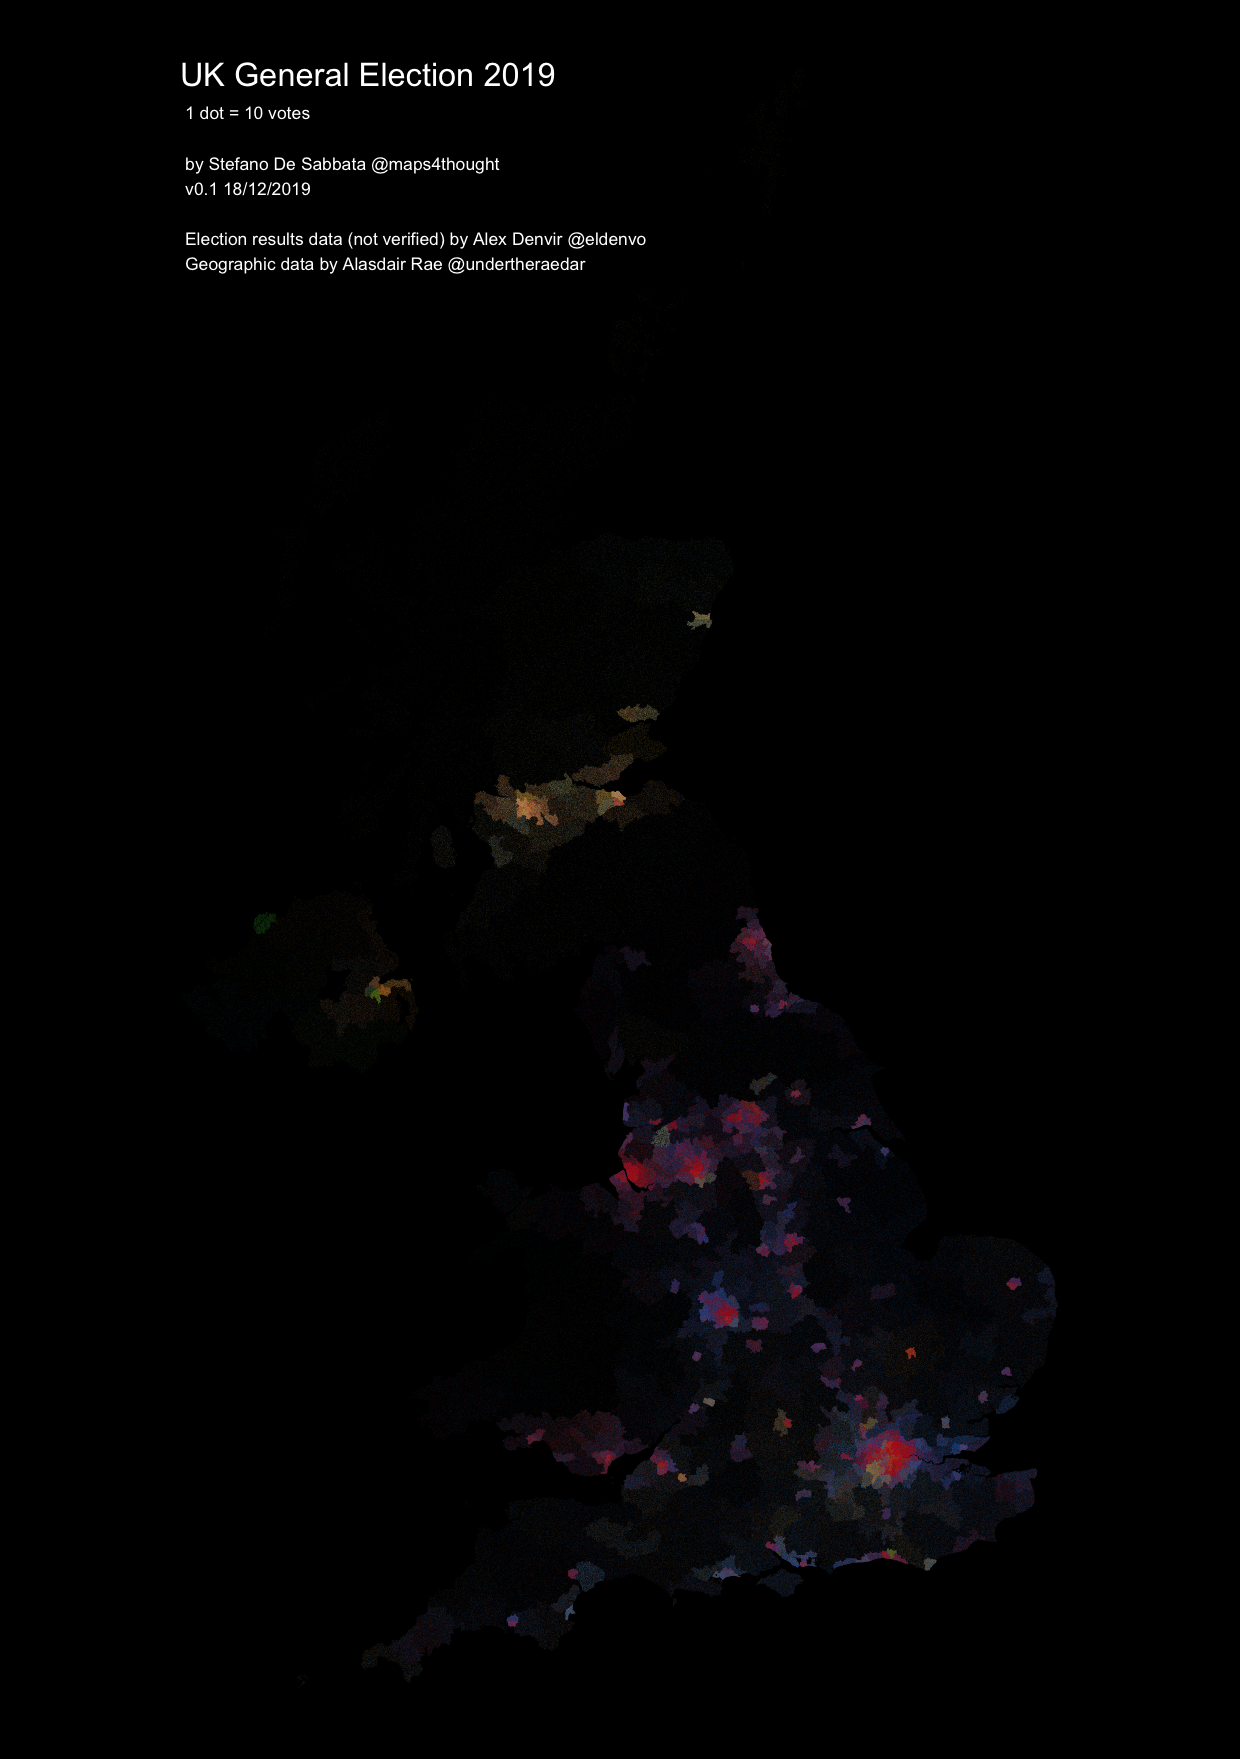
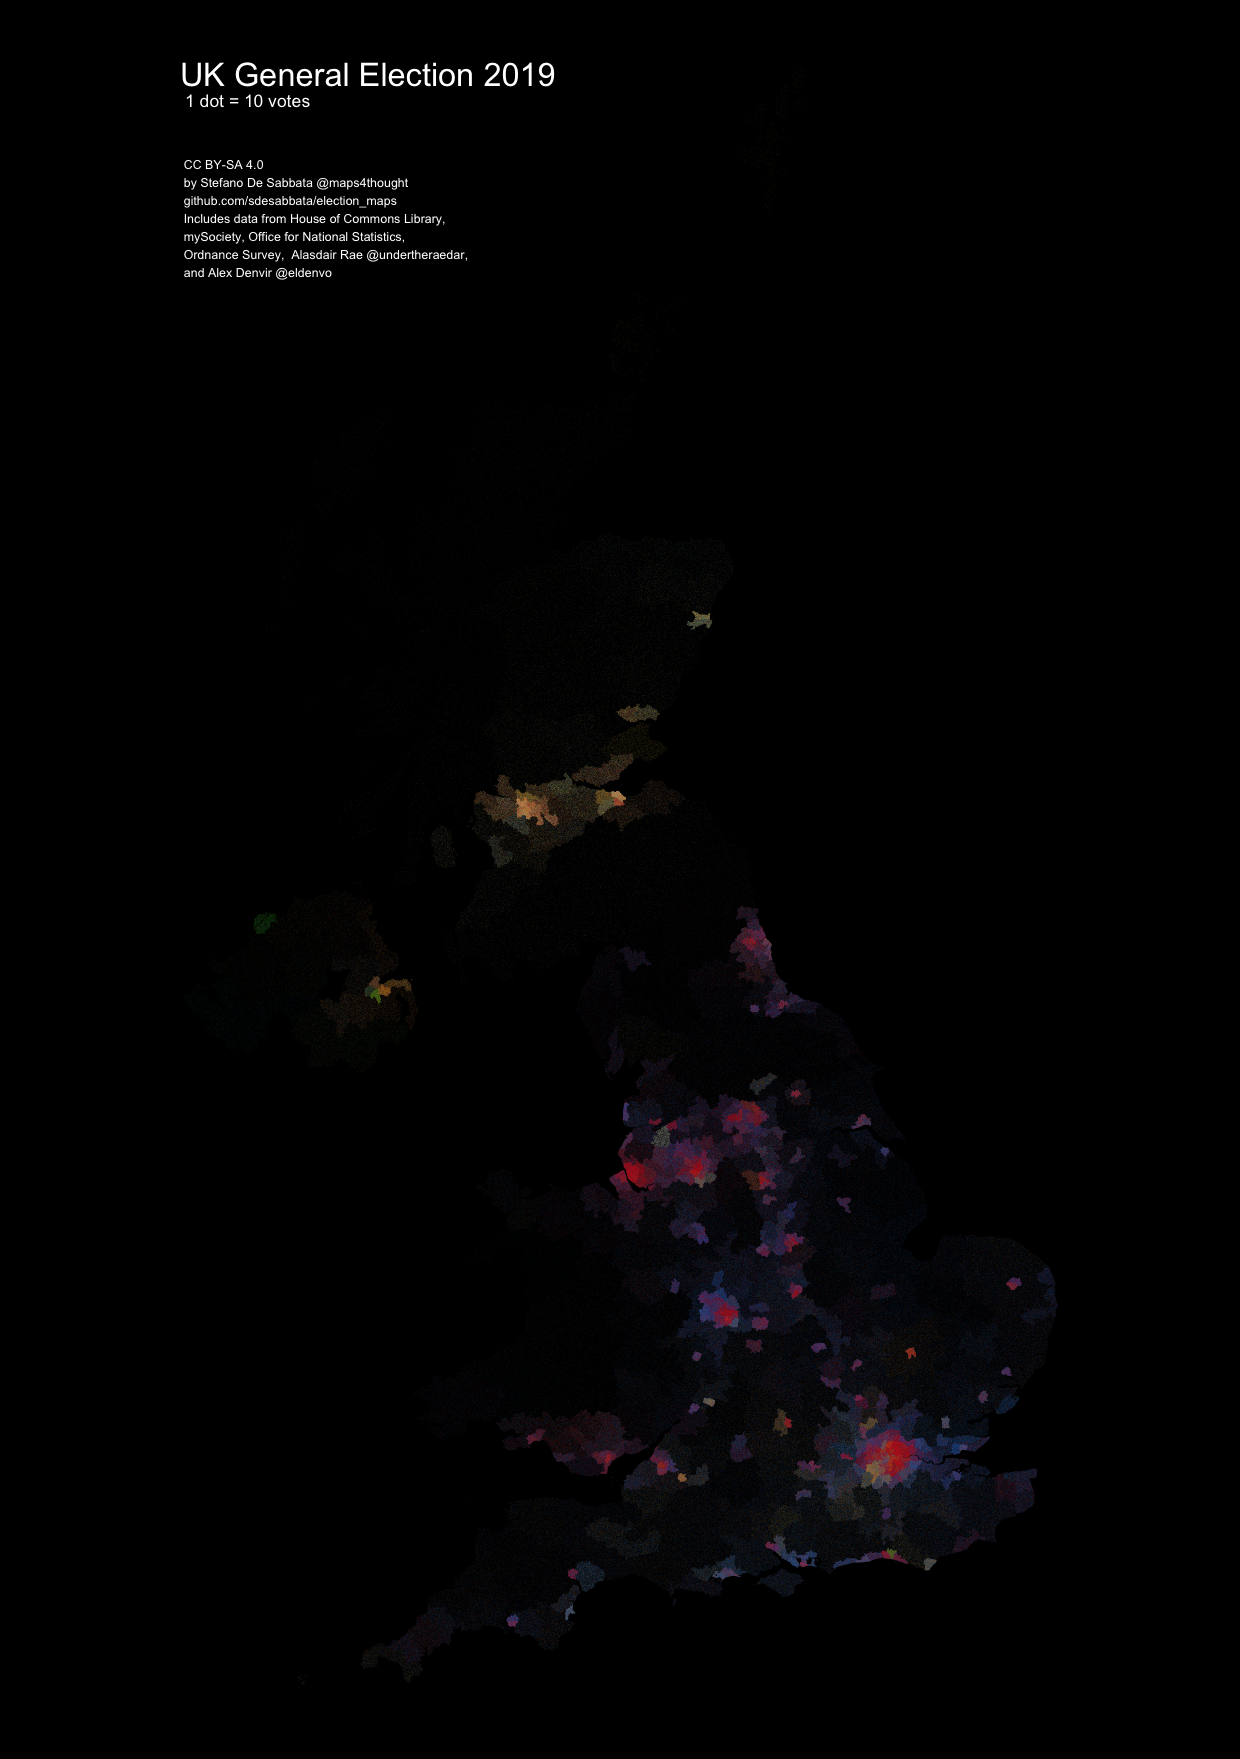
Added license info

Changed region(s): [[0.1532, 0.0614, 0.4903, 0.1535]]

diff --git a/README.md b/README.md
@@ -1,10 +1,8 @@
 # Election maps
 
-The 2019 UK General Election dot map provides an overview of the geographic distribution of votes cast per UK constituency during the 2019 UK General Election and its intersection with population density. Each dot represents 10 votes cast for one party in a constituency, and it is colour coded by the [party colour](https://en.wikipedia.org/wiki/Wikipedia:Index_of_United_Kingdom_political_parties_meta_attributes).
+The 2019 UK General Election dot maps provide an overview of the geographic distribution of votes cast per UK constituency during the 2019 UK General Election and its intersection with population density. Each dot represents 10 votes cast for one party in a constituency, and it is colour coded by the [party colour](https://en.wikipedia.org/wiki/Wikipedia:Index_of_United_Kingdom_political_parties_meta_attributes).
 
-The map combines [election results data](https://drive.google.com/file/d/19Z1YbmmjzDqMl2rzrk0XTfNrbRJDAMtU/view) ([not verified](https://twitter.com/eldenvo/status/1205525303092756482)) by [Alex Denvir](https://twitter.com/eldenvo) and [UK constituencies geographic data](https://github.com/alasdairrae/wpc) by [Alasdair Rae](https://twitter.com/undertheraedar).
-
-<img src="maps/ge2019_sim_points_10ppp_150dpi.png" width="50%"/>
+The code is released under [Licensed under the GNU General Public License v3.0](https://www.gnu.org/licenses/gpl-3.0.html). The images contained in this repository are released under [Creative Commons Attribution-ShareAlike 4.0 International (CC BY-SA 4.0) License](https://creativecommons.org/licenses/by-sa/4.0/). They contain data from from the [House of Commons Library](https://researchbriefings.parliament.uk/ResearchBriefing/Summary/CBP-7979) under [Open Parliament Licence](https://www.parliament.uk/site-information/copyright-parliament/open-parliament-licence/), [mySociety](https://www.mysociety.org/wehelpyou/see-a-list-of-every-mp-in-parliament/), [Office for National Statistics](http://geoportal.statistics.gov.uk/) and [Ordnance Survey](https://www.ordnancesurvey.co.uk/opendatadownload/products.html) as [compiled by Alasdair Rae](https://github.com/alasdairrae/wpc) [@undertheraedar](https://twitter.com/undertheraedar), and from the [House of Commons Library](https://researchbriefings.parliament.uk/ResearchBriefing/Summary/CBP-7979) as [compiled by Alex Denvir](https://drive.google.com/file/d/19Z1YbmmjzDqMl2rzrk0XTfNrbRJDAMtU/view) [@eldenvo](https://twitter.com/eldenvo).
 
 ## Instructions
 

diff --git a/maps/README.md b/maps/README.md
@@ -1,0 +1,3 @@
+# Maps
+
+The images in this folder are released under [Creative Commons Attribution-ShareAlike 4.0 International (CC BY-SA 4.0) License](https://creativecommons.org/licenses/by-sa/4.0/). They contain data from from the [House of Commons Library](https://researchbriefings.parliament.uk/ResearchBriefing/Summary/CBP-7979) under [Open Parliament Licence](https://www.parliament.uk/site-information/copyright-parliament/open-parliament-licence/), [mySociety](https://www.mysociety.org/wehelpyou/see-a-list-of-every-mp-in-parliament/), [Office for National Statistics](http://geoportal.statistics.gov.uk/) and [Ordnance Survey](https://www.ordnancesurvey.co.uk/opendatadownload/products.html) as [compiled by Alasdair Rae](https://github.com/alasdairrae/wpc) [@undertheraedar](https://twitter.com/undertheraedar), and from the [House of Commons Library](https://researchbriefings.parliament.uk/ResearchBriefing/Summary/CBP-7979) as [compiled by Alex Denvir](https://drive.google.com/file/d/19Z1YbmmjzDqMl2rzrk0XTfNrbRJDAMtU/view) [@eldenvo](https://twitter.com/eldenvo).
